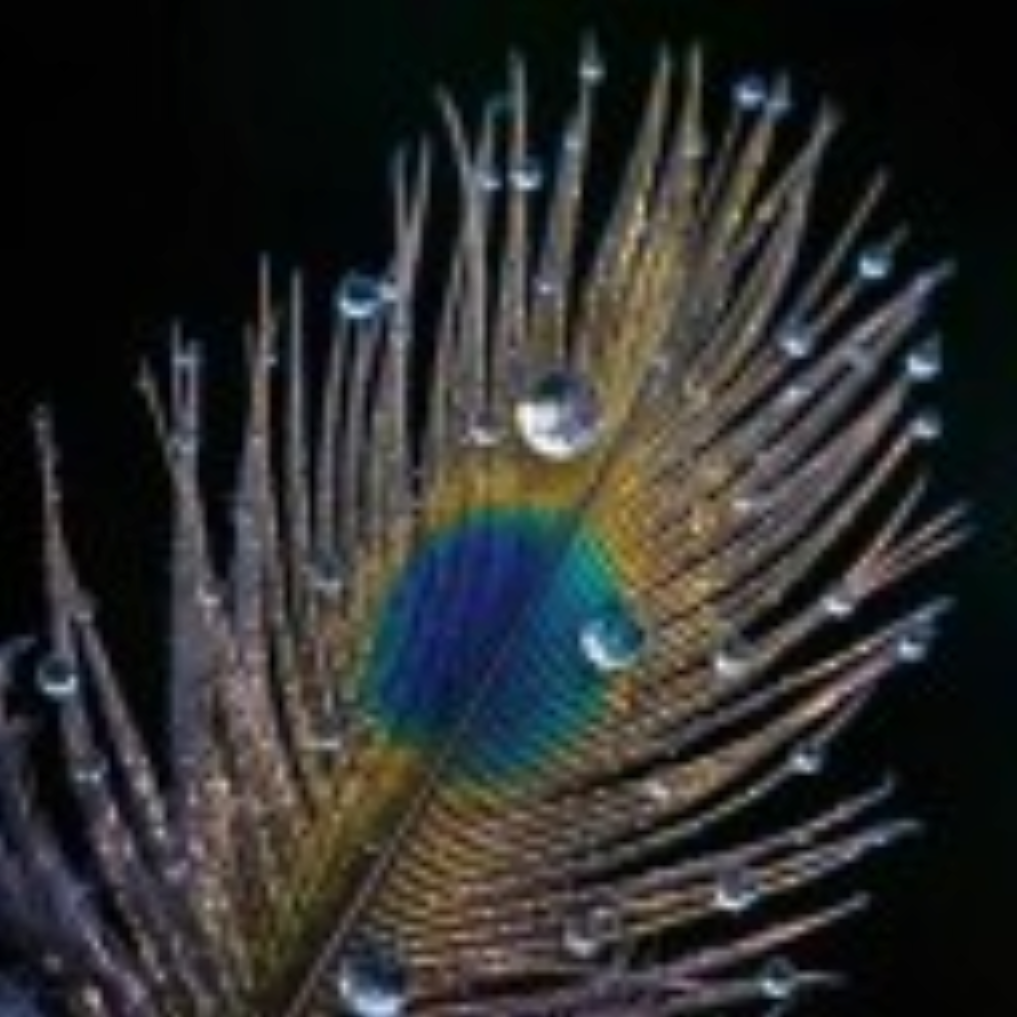
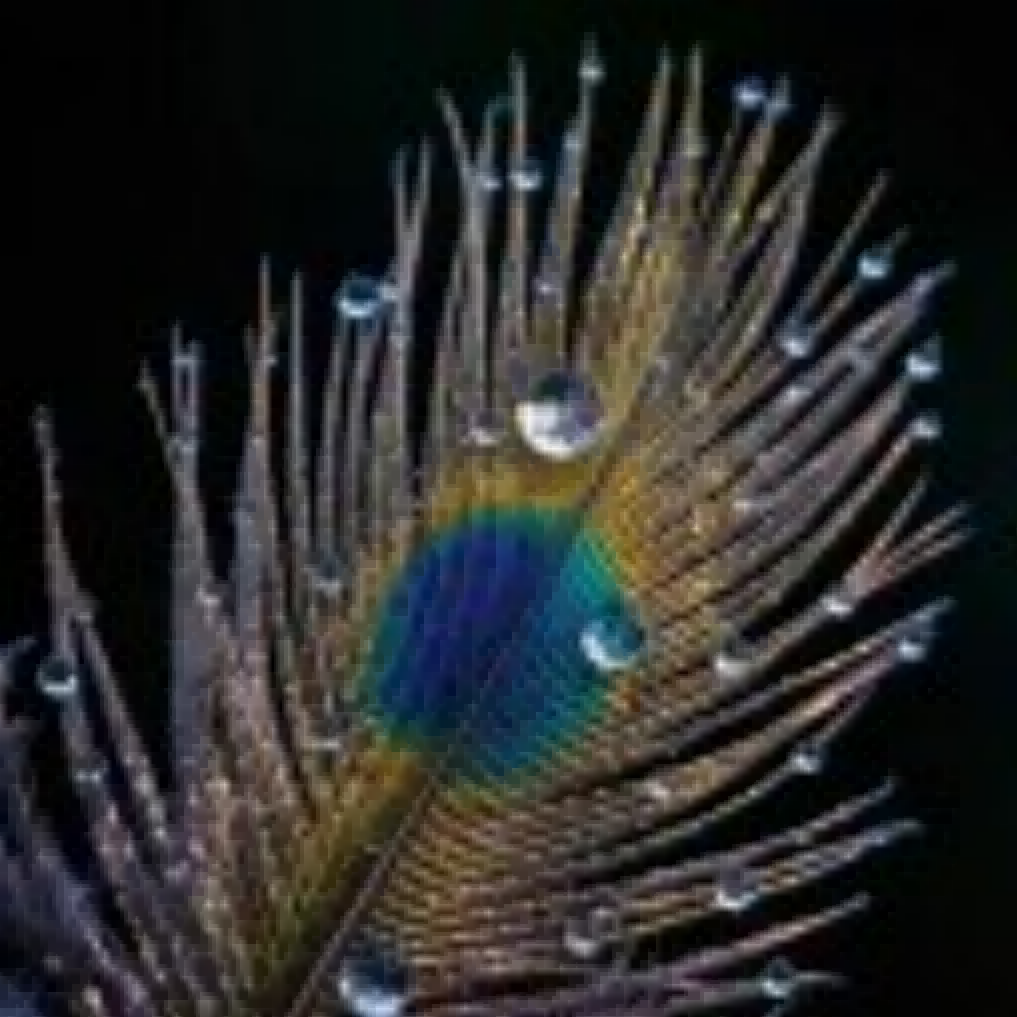
Add support for increased sharpness

diff --git a/src/main.py b/src/main.py
@@ -1,11 +1,17 @@
 import time
 
+from typing import TypeAlias
+
 from PIL import Image
 import numpy as np
 
-from .config import FILE_PATH, SCALE
+from .config import FILE_PATH, SCALE, DIST_THRESHOLD
+
 
 start_time = time.time()
+
+
+Pixel: TypeAlias = np.typing.NDArray[np.uint8]
 
 
 class EnhancableImage:
@@ -25,7 +31,7 @@ class EnhancableImage:
 
         matrix = self._matrix
 
-        for _ in range(1, scale):
+        for _ in range(2, scale):
             matrix = self._enhance(matrix)
 
         result_image = Image.fromarray(matrix)
@@ -58,23 +64,35 @@ class EnhancableImage:
         pixel_4 = expanded_matrix[starting_row + 2, starting_col + 2]
 
         expanded_matrix[starting_row, starting_col + 1] = self._derive_average_pixel(
-            pixel_1, pixel_2
+            pixel_1, pixel_2, pixel_1
         )
         expanded_matrix[starting_row + 1, starting_col] = self._derive_average_pixel(
-            pixel_1, pixel_3
+            pixel_1, pixel_3, pixel_3
         )
         expanded_matrix[starting_row + 1, starting_col + 1] = (
-            self._derive_average_pixel(pixel_1, pixel_2, pixel_3, pixel_4)
+            self._derive_average_pixel(
+                self._derive_average_pixel(pixel_1, pixel_2, pixel_2),
+                self._derive_average_pixel(pixel_3, pixel_4),
+                pixel_3,
+            )
         )
         expanded_matrix[starting_row + 1, starting_col + 2] = (
-            self._derive_average_pixel(pixel_2, pixel_4)
+            self._derive_average_pixel(pixel_2, pixel_4, pixel_4)
         )
         expanded_matrix[starting_row + 2, starting_col + 1] = (
-            self._derive_average_pixel(pixel_3, pixel_4)
+            self._derive_average_pixel(pixel_3, pixel_4, pixel_3)
         )
 
-    def _derive_average_pixel(self, *pixels):
-        return np.round(np.sum(pixels, axis=0) / len(pixels)).astype(np.uint8)
+    def _derive_average_pixel(
+        self, pixel_1: Pixel, pixel_2: Pixel, default_pixel=None
+    ) -> Pixel:
+        dist = np.linalg.norm(pixel_1 - pixel_2)
+
+        if dist > DIST_THRESHOLD:
+            # preserve sharp edges
+            return pixel_1
+        else:
+            return np.average([pixel_1, pixel_2], axis=0).astype(np.uint8)
 
 
 enhanced_image = EnhancableImage(path=FILE_PATH).enhance(scale=SCALE)

diff --git a/src/config.py b/src/config.py
@@ -1,2 +1,5 @@
 FILE_PATH = "assets/demo_orig.jpg"  # Update this for code to work
-SCALE = 4
+SCALE = 5
+
+# MAX 441
+DIST_THRESHOLD = 400
